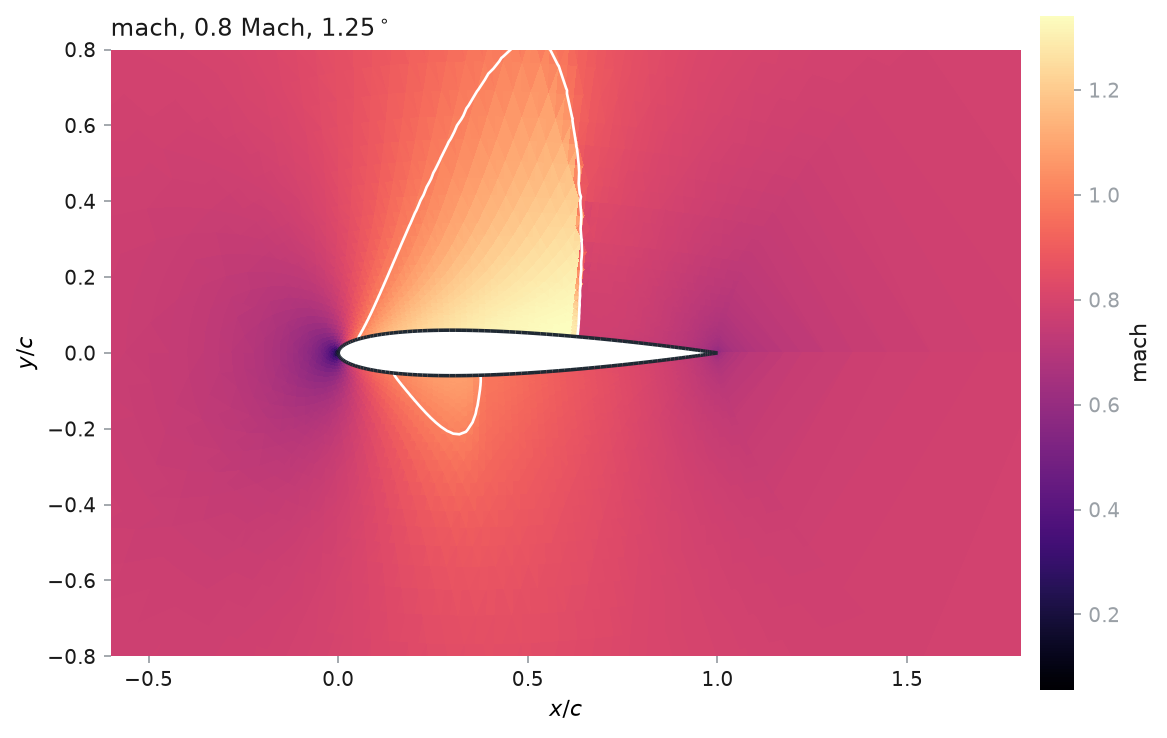
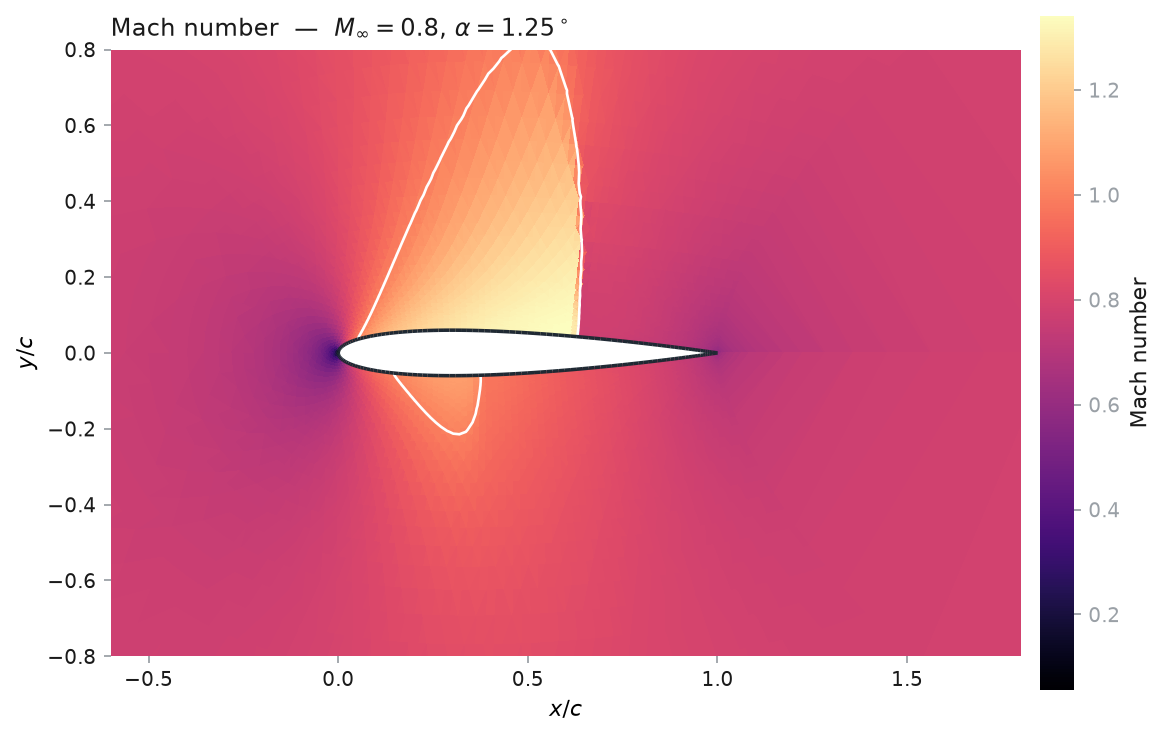
Add the result figures, and a script that draws all of them
The three figures a reader of this code actually wants -- where the load is
on the section, what the field looks like, and how the loads vary with
incidence -- plus the entropy field, which turned out to be the most
informative of the four.

`examples/06_postprocess.py` draws all of them from the two solves they come
from, into a directory you name:

    python examples/06_postprocess.py docs/figures

It runs the mesh `docs/verification.md` quotes its transonic numbers from, so
the figures and the table are now the same run rather than two runs that
agree -- the table's iteration count moves from 17 909 to 17 925 as a result,
which is the batched convergence test stopping a few steps later.

* **README** now leads with the Mach field: the supersonic pocket over the
  forward upper surface, closed by the shock at 63% chord, with the sonic
  line in white.  The surface pressure and the polar sit together under
  "Solves", each with the one command that draws it.
* **`docs/verification.md`** gains the entropy field.  Entropy is conserved
  along streamlines in smooth flow, so everything bright in it except the
  shock and the wake is the scheme -- and the brightest part is a sheet along
  the entire wall, numerical dissipation acting as a boundary layer nobody
  asked for.  That sheet *is* the spurious drag the section tabulates, which
  is a much better explanation than the table alone.
* **`docs/workflows.md`** gains the polar, with why it is three panels and
[…]

Changed region(s): [[0.0925, 0.0, 0.4936, 0.0623], [0.9563, 0.374, 0.9871, 0.5921]]

diff --git a/examples/06_postprocess.py b/examples/06_postprocess.py
@@ -1,0 +1,98 @@
+#!/usr/bin/env python3
+"""Every figure this code draws about a *result*, from one script.
+
+Three questions, three figures:
+
+* **Where is the load on the section?** The surface pressure distribution,
+  drawn as $-c_p$ so suction is up, with the sonic line marked -- on a
+  transonic case the crossing back through it *is* the shock.
+* **What does the field look like?** A Mach-number contour with the sonic line
+  in white, so the supersonic pocket and the shock that closes it are visible
+  rather than inferred.
+* **How do the loads vary with incidence?** Lift, drag and moment against
+  angle of attack at a fixed Mach number, from one mesh.
+
+    python examples/06_postprocess.py [output-directory]
+
+Needs matplotlib:  ./fv2d.sh install   (or  pip install -e ".[plot]")
+"""
+
+from __future__ import annotations
+
+import sys
+from pathlib import Path
+
+sys.path.insert(0, str(Path(__file__).resolve().parent.parent))
+
+from src import (  # noqa: E402
+    Discretization,
+    FlowConditions,
+    SolverOptions,
+    build_case,
+    naca4,
+)
+from src.plotting import plot_field, plot_polar, plot_surface_pressure  # noqa: E402
+from src.postprocess import forces, shock_location  # noqa: E402
+
+SECTION = "0012"
+TRANSONIC = FlowConditions(mach=0.8, alpha_deg=1.25)
+SWEEP_MACH = 0.5  # subcritical, so the polar is the clean one
+ANGLES = (-4.0, -2.0, 0.0, 2.0, 4.0, 6.0, 8.0)
+OPTIONS = SolverOptions(tolerance=1e-6, max_iterations=60_000, print_interval=0)
+
+
+def main() -> None:
+    out = Path(sys.argv[1] if len(sys.argv) > 1 else "figures")
+    out.mkdir(parents=True, exist_ok=True)
+
+    # One case, reused for both figures below: the mesh does not depend on the
+    # flow, and at this resolution it is not free.
+    # The same mesh docs/verification.md quotes its transonic numbers from, so
+    # the figure and the table are the same run.
+    mesh = Discretization(n_surface=192, n_radial=64, far_field_radius=20.0)
+    case = build_case(naca4(SECTION, mesh.n_surface), mesh)
+    print(f"{case.airfoil.name}, {case.metrics.n_elements} cells\n")
+
+    # -- the transonic point: surface pressure, and the field ---------------
+    print(f"solving M = {TRANSONIC.mach:g} at {TRANSONIC.alpha_deg:g} deg ...")
+    result = case.solve(TRANSONIC, OPTIONS)
+    print(f"  {result.summary()}")
+    print(f"  {forces(result).summary()}")
+    print(f"  shock at x/c = {shock_location(result):.3f}")
+
+    print(f"  wrote {plot_surface_pressure(result, out / 'cp_transonic.png')}")
+    print(f"  wrote {plot_field(result, out / 'mach_transonic.png', scalar='mach')}")
+    # Entropy is conserved along streamlines in smooth flow, so this field is
+    # the scheme's own error everywhere except across the shock, where it is
+    # physical.  Worth a look next to the Mach field.
+    print(f"  wrote {plot_field(result, out / 'entropy_transonic.png', scalar='entropy')}")
+
+    # -- the polar: loads against incidence, one mesh -----------------------
+    print(f"\nsweeping {len(ANGLES)} angles at M = {SWEEP_MACH:g} ...")
+    print(f"{'alpha':>7}  {'cl':>10}  {'cd':>10}  {'cm(c/4)':>10}")
+    state, loads, solved = None, [], []
+    for alpha in ANGLES:
+        swept = case.solve(FlowConditions(mach=SWEEP_MACH, alpha_deg=alpha), OPTIONS, state=state)
+        if not swept.converged:
+            print(f"{alpha:7.2f}  did not converge: {swept.message}")
+            continue
+        state = swept.state  # warm start, from a converged field only
+        load = forces(swept)
+        loads.append(load)
+        solved.append(alpha)
+        print(f"{alpha:7.2f}  {load.cl:+10.5f}  {load.cd:+10.5f}  {load.cm:+10.5f}")
+
+    title = f"{case.airfoil.name} at $M_\\infty = {SWEEP_MACH:g}$"
+    print(f"\n  wrote {plot_polar(solved, loads, out / 'polar.png', title=title)}")
+
+    print(
+        "\nReading the polar: lift is straight over the range a thin-aerofoil\n"
+        "theory would claim it for, and drag is a parabola about the incidence of\n"
+        "minimum drag.  Both are inviscid -- there is no skin friction in these\n"
+        "equations -- so the drag here is numerical plus, above the critical Mach\n"
+        "number, wave drag.  docs/verification.md measures which is which."
+    )
+
+
+if __name__ == "__main__":
+    main()

diff --git a/src/plotting.py b/src/plotting.py
@@ -57,6 +57,18 @@ _WALL = "#1f2933"
 _MESH = "#5b6b7a"
 _ACCENT = "#eb6834"
 
+#: Axis and colour-bar labels for the fields :func:`~src.postprocess.scalar_field`
+#: can produce.  A colour bar labelled ``mach`` is a variable name leaking into a
+#: figure; these are what the quantity is called.
+SCALAR_LABELS = {
+    "mach": "Mach number",
+    "pressure": r"pressure  $p / \rho_\infty v_\infty^2$",
+    "density": r"density  $\rho / \rho_\infty$",
+    "velocity": r"speed  $|v| / v_\infty$",
+    "cp": "$c_p$",
+    "entropy": r"entropy  $\Delta s / c_v$",
+}
+
 #: Categorical series colours, assigned in this **fixed order** and never
 #: cycled: a colour follows the entity, not its rank, so filtering a flux out
 #: of a comparison must not repaint the others.
@@ -99,6 +111,16 @@ def field_cmap(name: str | None = None) -> str:
             f"from the shock.  Use {FIELD_CMAP!r}, 'viridis' or 'cividis'."
         )
     return name
+
+
+def _operating_point(flow, lead: str) -> str:
+    r"""``lead`` followed by the operating point, which every result figure needs.
+
+    A figure that does not say its own Mach number and incidence is useless the
+    moment it leaves the terminal it was made in -- which is the only place
+    these are ever looked at.
+    """
+    return f"{lead}  \u2014  $M_\\infty = {flow.mach:g}$, $\\alpha = {flow.alpha_deg:g}^\\circ$"
 
 
 def _style(ax, *, frame: bool = True) -> None:
@@ -269,7 +291,7 @@ def plot_surface_pressure(
     ax.set_ylabel("$-c_p$")
     ax.set_xlim(-0.02, 1.02)
     ax.set_title(
-        title or f"{result.flow.mach:g} Mach, {result.flow.alpha_deg:g}$^\\circ$",
+        title or _operating_point(result.flow, f"{result.mesh.n_elements} cells"),
         color=_INK,
         fontsize=11,
         loc="left",
@@ -330,7 +352,7 @@ def plot_field(
     bar = fig.colorbar(art, ax=ax, fraction=0.035, pad=0.02)
     bar.outline.set_visible(False)
     bar.ax.tick_params(colors=_MUTED, labelsize=9, width=0.8, length=3)
-    bar.set_label(scalar, color=_INK, fontsize=10)
+    bar.set_label(SCALAR_LABELS.get(scalar, scalar), color=_INK, fontsize=10)
 
     ax.set_xlim(window[0], window[1])
     ax.set_ylim(window[2], window[3])
@@ -338,7 +360,7 @@ def plot_field(
     ax.set_xlabel("$x/c$")
     ax.set_ylabel("$y/c$")
     ax.set_title(
-        title or f"{scalar}, {result.flow.mach:g} Mach, {result.flow.alpha_deg:g}$^\\circ$",
+        title or _operating_point(result.flow, SCALAR_LABELS.get(scalar, scalar)),
         color=_INK,
         fontsize=11,
         loc="left",
@@ -476,6 +498,7 @@ def plot_adaptation(history, path: str | Path | None = None, *, title: str | Non
 
 __all__ = [
     "FIELD_CMAP",
+    "SCALAR_LABELS",
     "field_cmap",
     "plot_adaptation",
     "plot_airfoil",

diff --git a/docs/verification.md b/docs/verification.md
@@ -115,7 +115,8 @@ surface.
 ![Surface pressure at the legacy operating point, with the upper-surface shock at x/c = 0.63](figures/cp_transonic.png)
 
 192 × 64 O-grid, far field 20 chords, Roe flux, converged to $10^{-6}$ in
-17 909 iterations:
+17 925 iterations — the run that drew the figure above, reproduced by
+`python examples/06_postprocess.py`:
 
 | | this code | published inviscid |
 |---|---|---|
@@ -147,7 +148,18 @@ NACA 0012 at $M_\infty = 0.5$, $\alpha = 0$, where $c_d$ must be 0:
 | 192 × 72 | 27 648 | 0.0131 | 9.32e−5 |
 
 It falls roughly as $h$ — first order, which is exactly what a piecewise-constant
-reconstruction gives and no better. Two consequences worth taking seriously:
+reconstruction gives and no better.
+
+![Entropy rise around the transonic NACA 0012: a bright sheet along the whole wall, the shock, and the wake](figures/entropy_transonic.png)
+
+The entropy field says where that error is made. Entropy is conserved along
+streamlines in smooth flow, so everything bright here except the shock and the
+wake behind it is the scheme rather than the physics — and the brightest part is
+the **sheet along the entire wall**, which is numerical dissipation at the
+surface acting as a boundary layer nobody asked for. That sheet is the spurious
+drag in the table above, and it is why the loads converge so slowly.
+
+Two consequences worth taking seriously:
 
 * **Transonic drag is not usable at these resolutions.** The spurious drag at
   $\alpha = 0$ is 0.013, against a published wave drag of about 0.022 for the
@@ -156,9 +168,12 @@ reconstruction gives and no better. Two consequences worth taking seriously:
   that the numerical dissipation damages symmetrically. $c_\ell$ is within a
   few per cent where $c_d$ is out by half.
 
-This is the strongest argument for a higher-order reconstruction, which is the
-decision scheduled for increment 3 ([`roadmap.md`](roadmap.md)). It is also why
-the lift tests carry tight tolerances and there is no drag test.
+This is the strongest argument for a higher-order reconstruction, which was
+decided in increment 3 and deliberately deferred ([`roadmap.md`](roadmap.md)).
+It is also why the lift tests carry tight tolerances and there is no drag test.
+Adaptive refinement recovers part of it — [measured in
+`adaptation.md`](adaptation.md#does-it-pay) — but only part, and at a cost in
+iterations.
 
 ## How far away the far field has to be
 

diff --git a/README.md b/README.md
@@ -17,7 +17,11 @@ result = solve_airfoil("0012", mach=0.8, alpha=1.25)
 print(result.report())
 ```
 
-![Surface pressure at the legacy operating point: the upper-surface shock at 63% chord](docs/figures/cp_transonic.png)
+![Mach number around a NACA 0012 at M 0.8 and 1.25 degrees: a supersonic pocket over the forward upper surface, closed by a shock at 63% chord, with the sonic line drawn in white](docs/figures/mach_transonic.png)
+
+*NACA 0012 at $M_\infty = 0.8$, $\alpha = 1.25^\circ$. The white line is sonic:
+inside it the flow is supersonic, and the shock that closes the pocket at 63%
+chord is the whole reason this case is the one everybody runs.*
 
 > **All five increments are done.** The solver runs, converges and is verified;
 > the compiled backend, the discrete adjoint and adaptive refinement are in, and
@@ -109,6 +113,15 @@ more were implemented, measured over 60 solves and removed, because neither is
 usable on this problem; the measurement is
 [kept](docs/riemann_fluxes.md) even though the code is not.
 → [`docs/theory.md`](docs/theory.md#6-the-finite-volume-discretisation)
+
+**Says what the answer is.** Surface pressure, field contours, and the loads
+against incidence, each one command or one function call.
+→ [`examples/06_postprocess.py`](examples/06_postprocess.py) draws all three
+
+| | |
+|---|---|
+| ![Surface pressure at M 0.8, 1.25 degrees, with the upper-surface shock at 63% chord](docs/figures/cp_transonic.png) | ![Lift, drag and quarter-chord moment of a NACA 0012 against angle of attack at Mach 0.5](docs/figures/polar.png) |
+| `./fv2d.sh solve @transonic cp=cp.png` | `./fv2d.sh sweep @subcritical alphas=-4:8:2 figure=polar.png` |
 
 **Runs fast.** A compiled Numba backend with the whole march fused into one
 `nopython` call — **23× the vectorised reference** on the production mesh, and a

diff --git a/docs/workflows.md b/docs/workflows.md
@@ -51,13 +51,22 @@ angle's converged field, which is a flow already close to the answer.
 Measured on the mesh above — 12 288 cells, a NACA 2412 at $M = 0.5$ — seven
 angles converge to $10^{-7}$ in **30 s in total**, about 4.3 s each.
 
+![Lift, drag and quarter-chord moment of a NACA 0012 against angle of attack at Mach 0.5, as three panels](figures/polar.png)
+
+*Three panels rather than three curves on one axis: $c_\ell$, $c_d$ and $c_m$
+differ by an order of magnitude, and a shared axis flattens two of them into the
+baseline. From the launcher, `./fv2d.sh sweep @subcritical alphas=-4:8:2
+figure=polar.png`; from Python, `src.plotting.plot_polar`.*
+
 The curve is also the first check worth making on a new mesh. Thin-aerofoil
 theory with the Prandtl–Glauert factor gives a lift slope of
 $2\pi/\sqrt{1 - M^2} = 7.26$ per radian at $M = 0.5$; the fit over
 $|\alpha| \le 4^\circ$ gives **7.12**, or 98% of it, and the zero-lift incidence
 comes out at $-2.09^\circ$, negative because the section is cambered.
 
-→ [`../examples/02_alpha_sweep.py`](../examples/02_alpha_sweep.py)
+→ [`../examples/02_alpha_sweep.py`](../examples/02_alpha_sweep.py) for the
+numbers, [`../examples/06_postprocess.py`](../examples/06_postprocess.py) for
+the figure.
 
 ## Exact design gradients
 

diff --git a/examples/README.md b/examples/README.md
@@ -15,10 +15,17 @@ python examples/01_solve.py
 | **03** | [`03_sensitivity.py`](03_sensitivity.py) — exact gradients, and what they cost | `jax` | 45 s |
 | **04** | [`04_optimise.py`](04_optimise.py) — a shape optimisation driven by them | `jax`, `scipy` | 1.5 min |
 | **05** | [`05_adapt.py`](05_adapt.py) — adaptive against uniform refinement | nothing | 1.5 min |
+| **06** | [`06_postprocess.py`](06_postprocess.py) — every result figure: $c_p$, the Mach field, the polar | `matplotlib` | 1 min |
 
 Install what the last two need with `./fv2d.sh install` (or
 `pip install -e ".[all]"`).
 
-Every script prints its numbers; none writes a figure unless you ask, so they
-are safe to run over ssh. `docs/workflows.md` explains what each one is doing
+Every script prints its numbers, and only `06` writes figures — into
+`figures/`, or into a directory you name:
+
+```sh
+python examples/06_postprocess.py docs/figures
+```
+
+So the first five are safe to run over ssh with no display. `docs/workflows.md` explains what each one is doing
 and why it is done that way.

diff --git a/docs/README.md b/docs/README.md
@@ -31,6 +31,14 @@ stops matching the code is a one-command fix:
     figure=docs/figures/adapted.png window=-0.2,1.2,-0.5,0.5
 ```
 
+The four *result* figures — surface pressure, the Mach field, the entropy field
+and the polar — all come from one script, because they all come from the same
+two solves:
+
+```bash
+python examples/06_postprocess.py docs/figures
+```
+
 There is no figure build step and no CI checking them, so this is a **manual
 step after changing the geometry or the mesh generator**. Nothing breaks if you
 forget: the committed PNG simply stops matching the code, which is a
